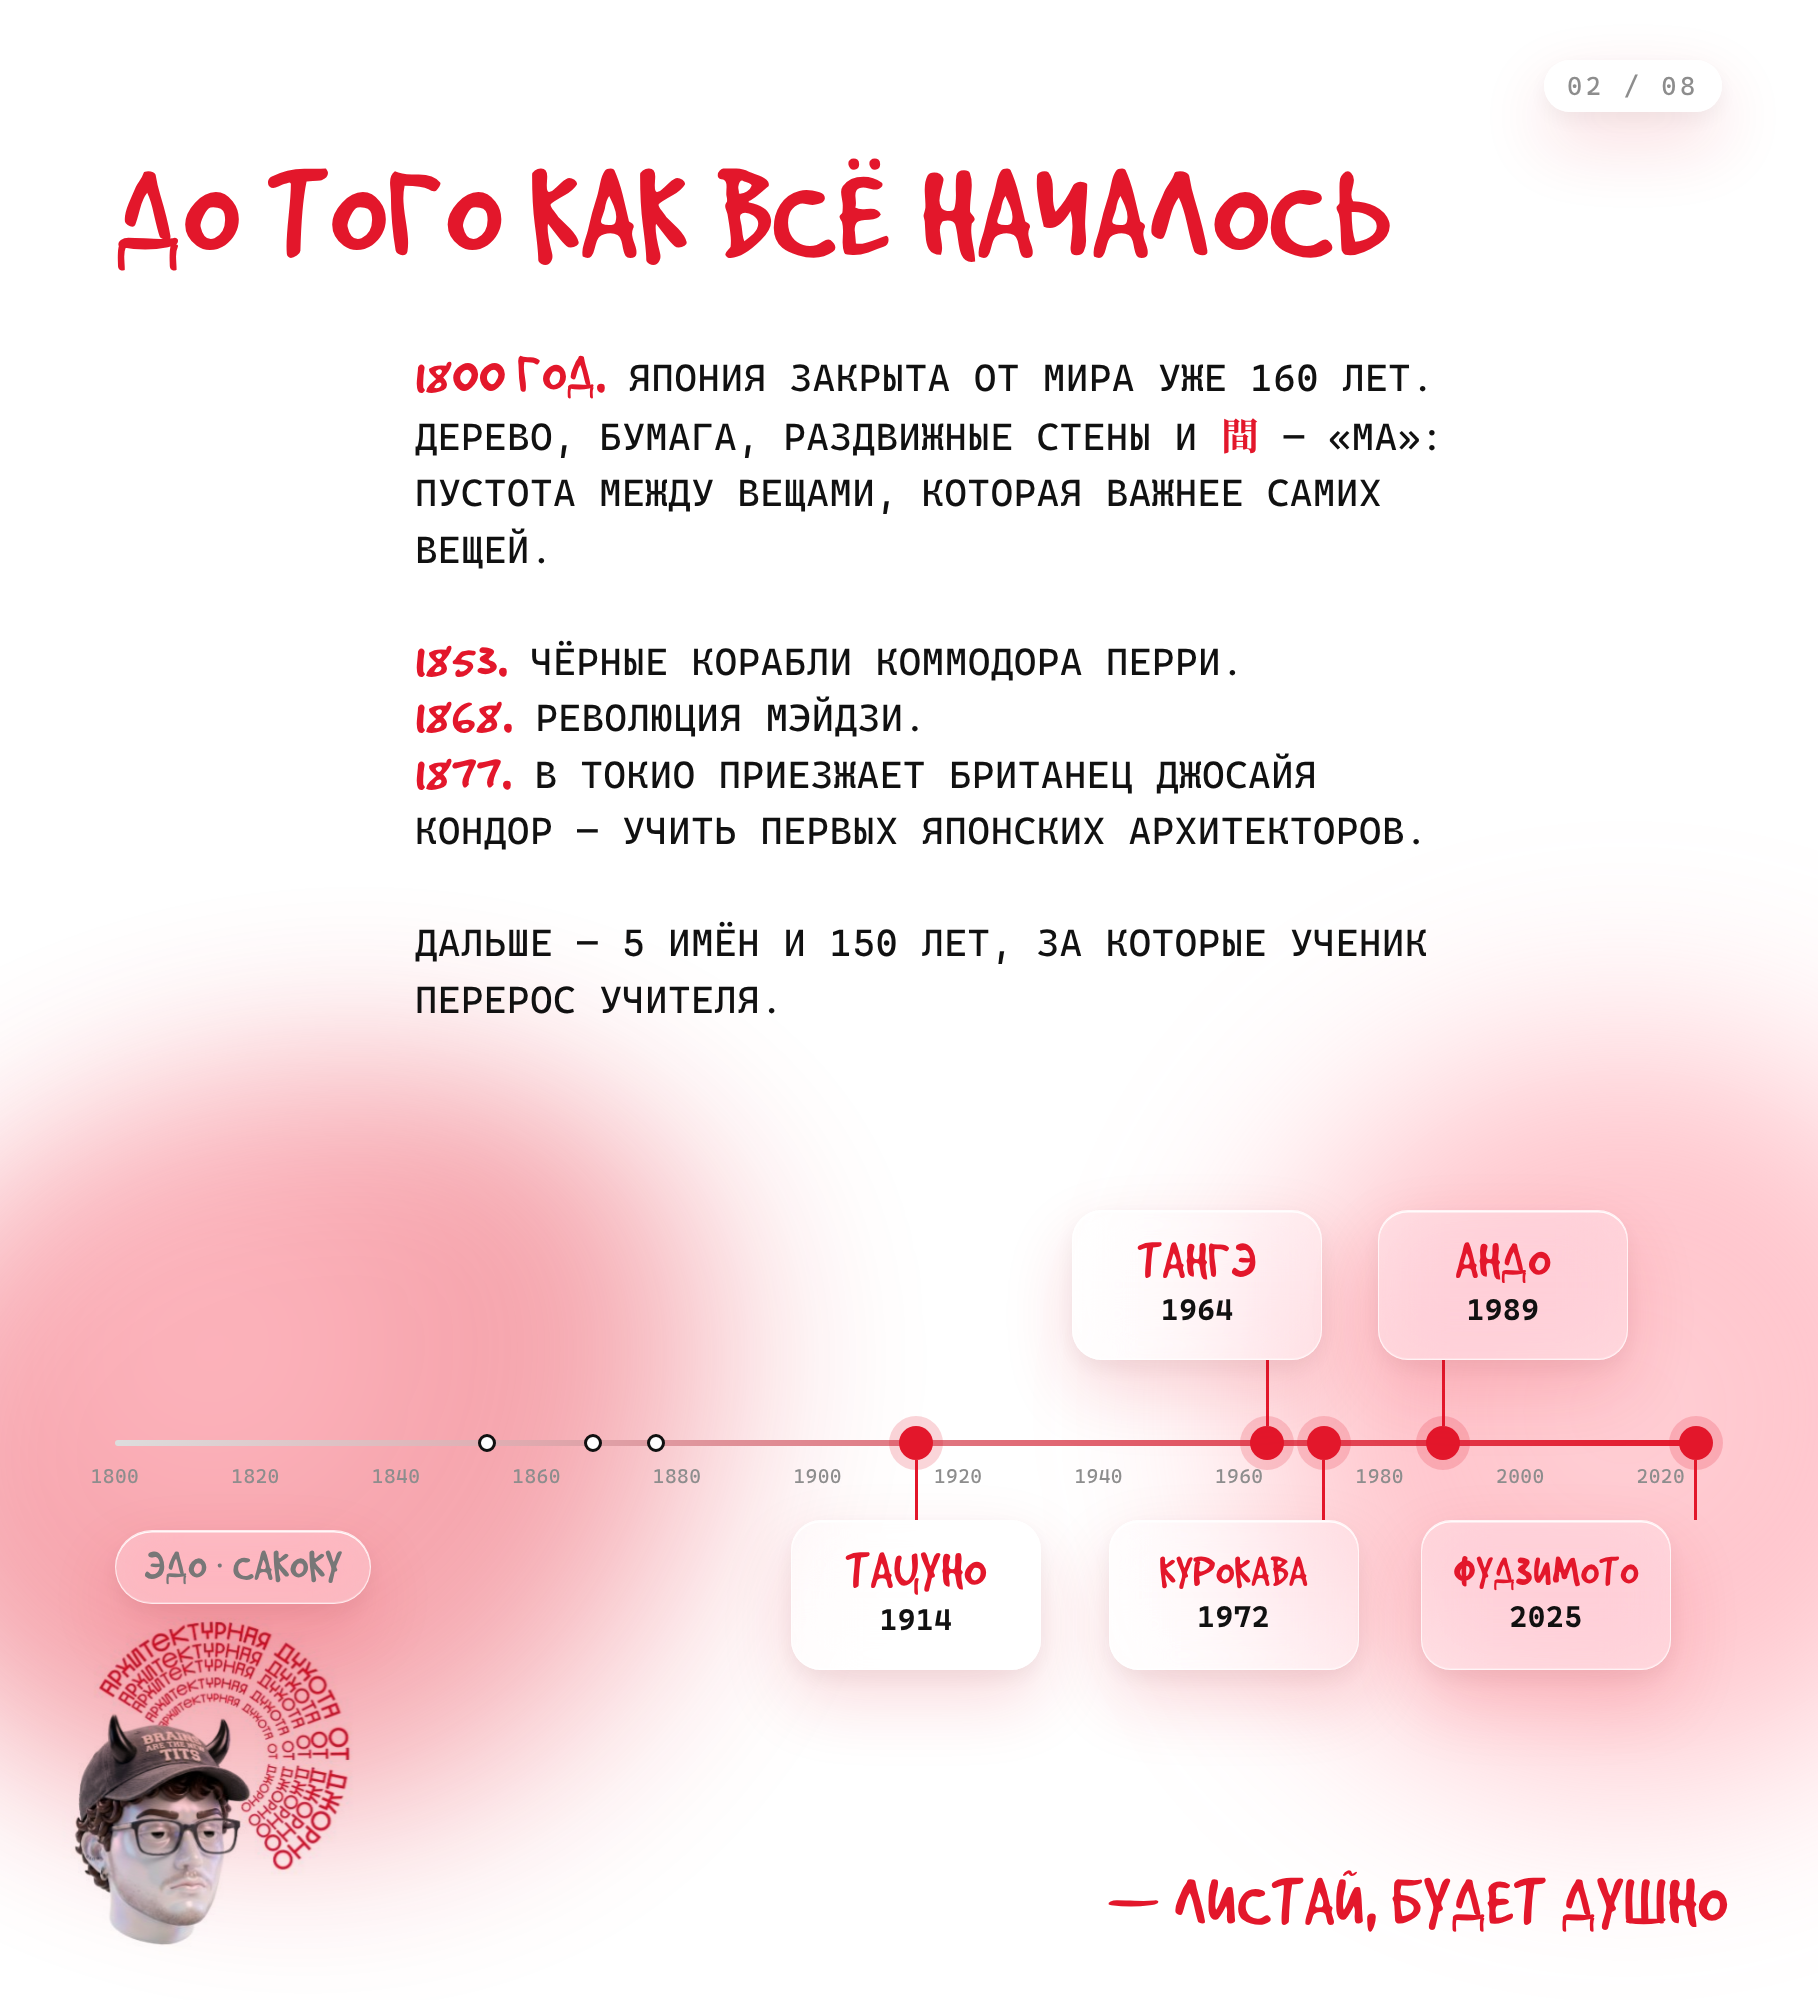
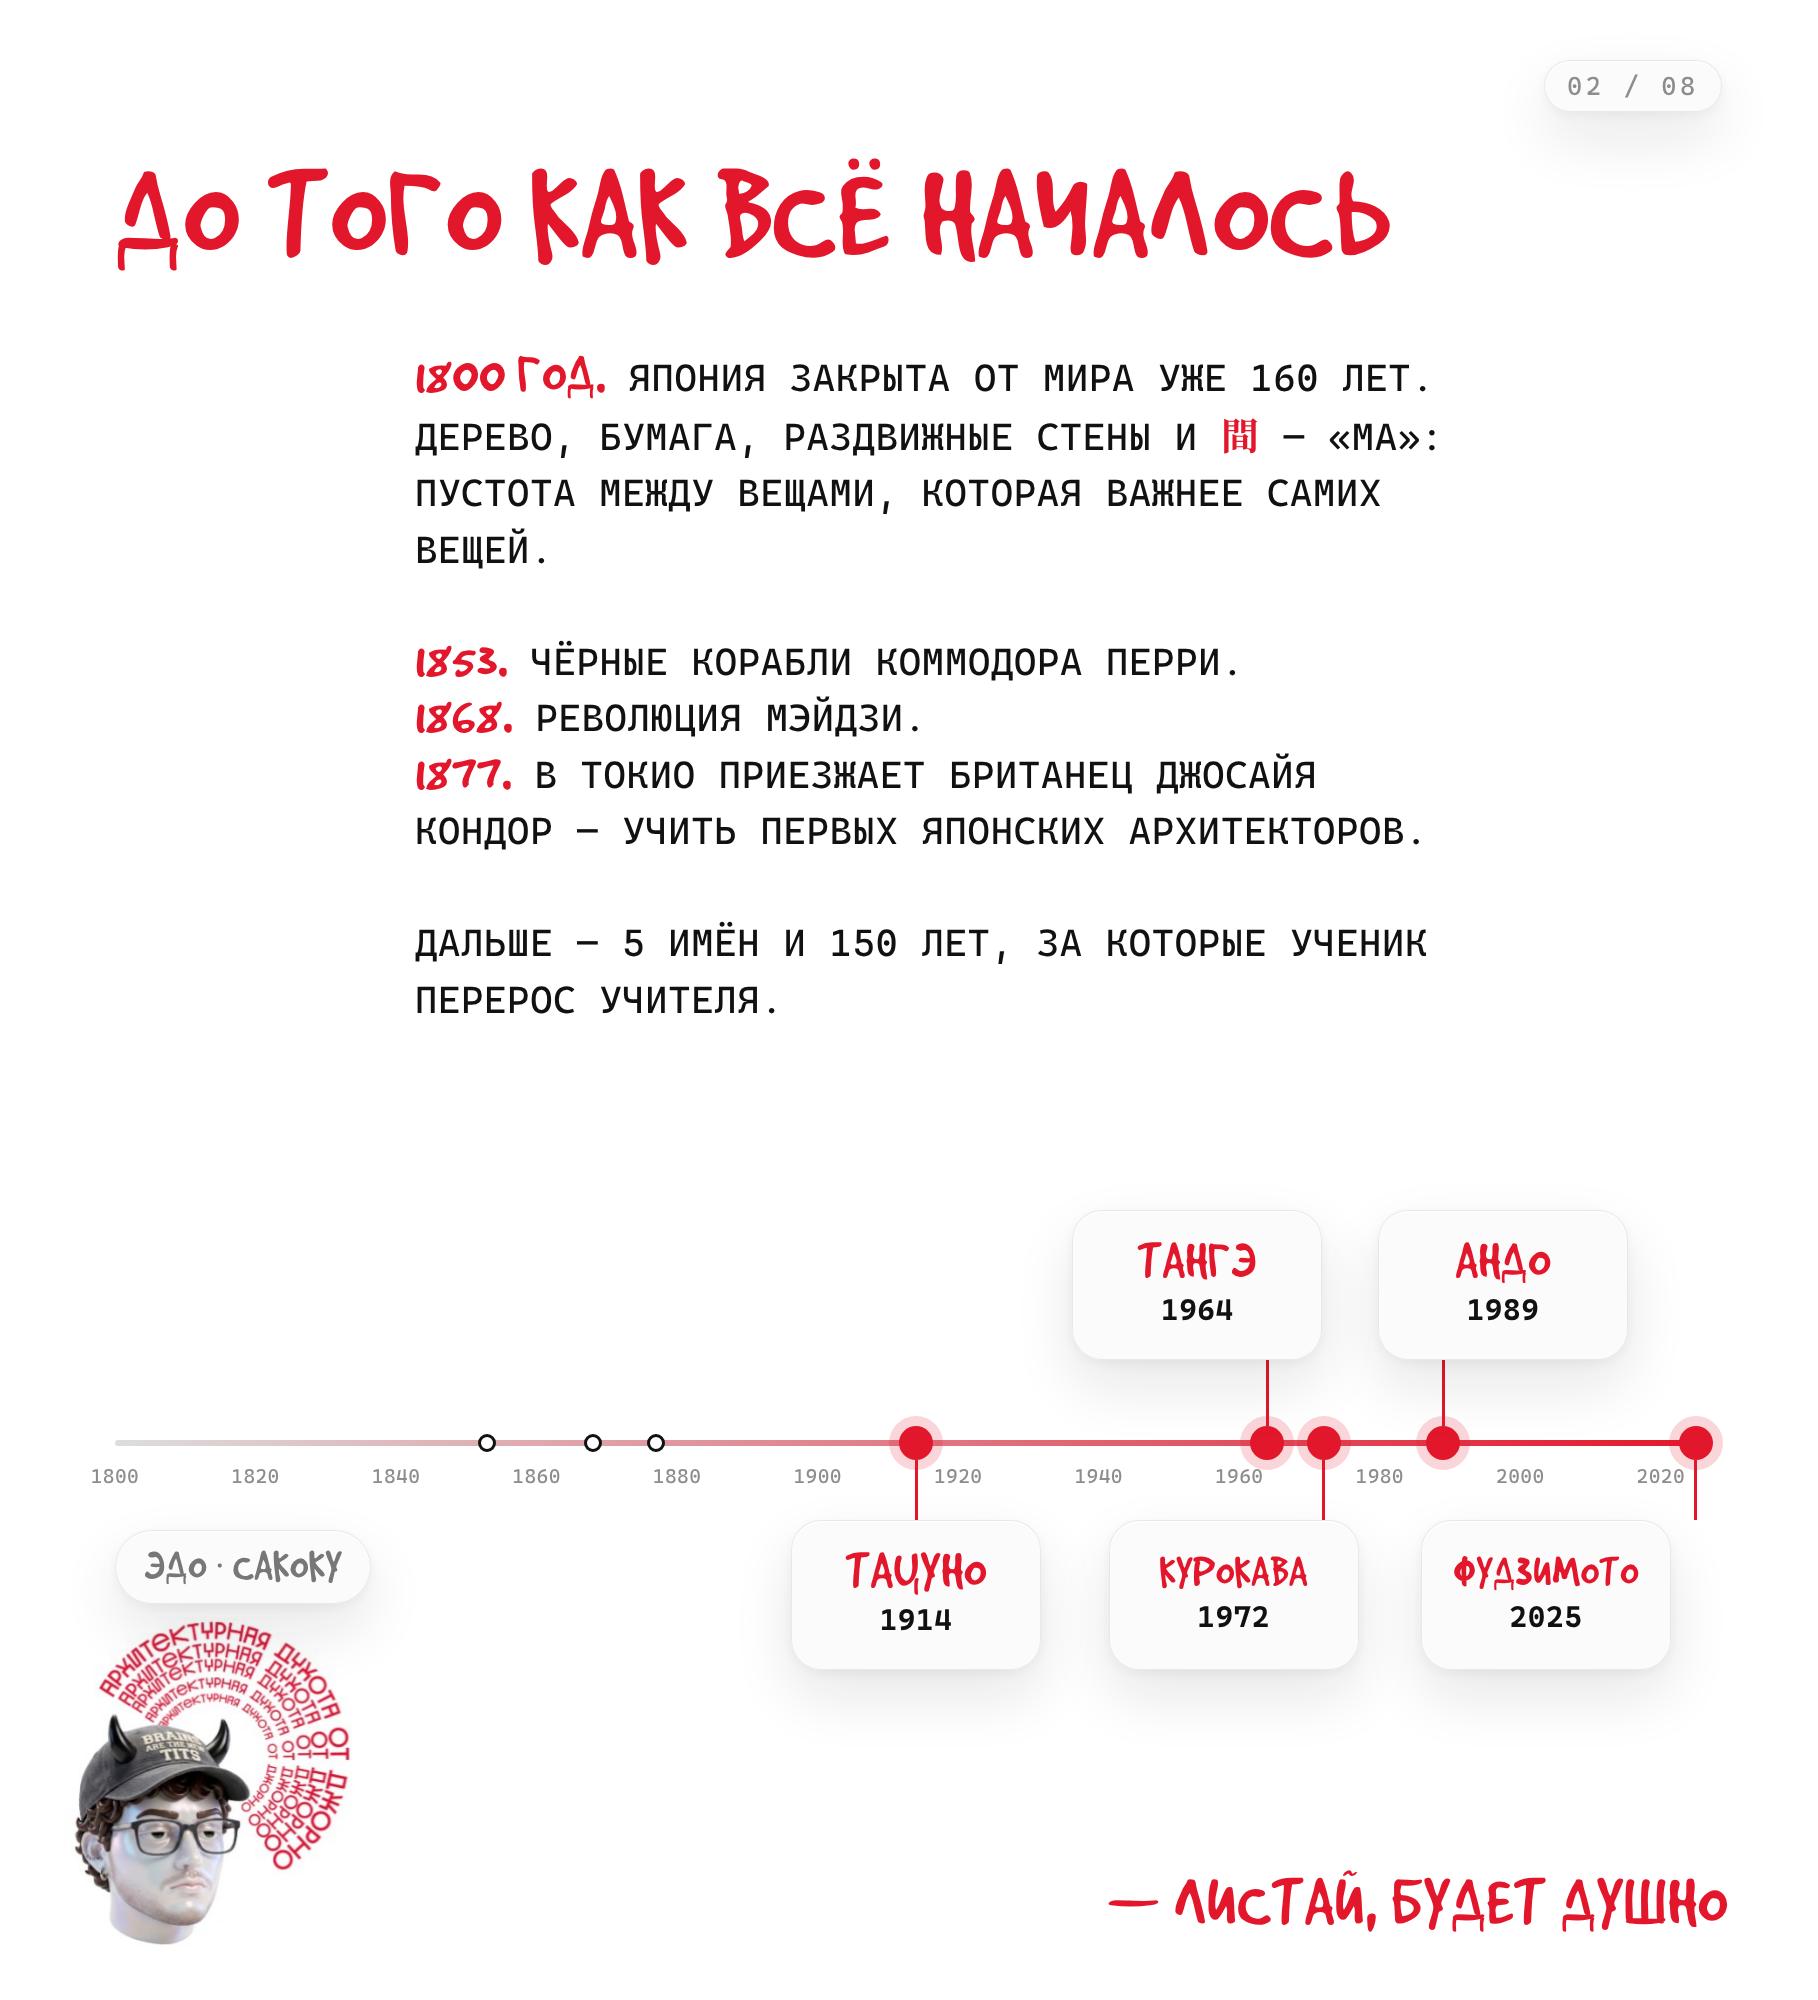
Carousel: drop pink blobs, plain white background with neutral frosted cards
Claude-Session: https://claude.ai/code/session_01P3H123YjJAsg9f2r9Q6Sv8

Changed region(s): [[0.0, 0.496, 0.4312, 0.93], [0.6469, 0.496, 1.0, 0.899]]

diff --git a/carousel/japan-architects/carousel.html b/carousel/japan-architects/carousel.html
@@ -13,8 +13,8 @@
   @font-face { font-family:'NotoJP'; src:url(assets/fonts/noto-serif-jp-ma.woff2) format('woff2'); font-display:block; }
   :root {
     --red:#E3172B; --ink:#111; --grey:#8d8d8d;
-    --glass:rgba(255,255,255,.26); --glass-edge:rgba(255,255,255,.7);
-    --glass-shadow:0 30px 70px rgba(227,23,43,.16), 0 8px 24px rgba(17,17,17,.06), inset 0 1.5px 0 rgba(255,255,255,.9), inset 0 -1px 0 rgba(255,255,255,.25);
+    --glass:rgba(250,250,250,.72); --glass-edge:rgba(17,17,17,.08);
+    --glass-shadow:0 26px 60px rgba(17,17,17,.10), 0 4px 14px rgba(17,17,17,.05), inset 0 1.5px 0 #fff;
   }
   * { box-sizing:border-box; margin:0; padding:0; }
   body { background:#ddd; display:flex; flex-direction:column; gap:40px; align-items:center; padding:40px 0; }
@@ -29,7 +29,7 @@
   .abs { position:absolute; }
 
   /* glassmorphism */
-  .blob { position:absolute; border-radius:50%; filter:blur(80px); opacity:.42; z-index:-1;
+  .blob { display:none !important; position:absolute; border-radius:50%; filter:blur(80px); opacity:.42; z-index:-1;
           background:radial-gradient(circle at 35% 35%, #ff5a6e 0%, var(--red) 45%, rgba(227,23,43,0) 72%);
           animation:drift 6s ease-in-out infinite alternate; }
   .blob.soft { background:radial-gradient(circle at 50% 50%, #ffb3bd 0%, #ff7a8a 40%, rgba(255,122,138,0) 72%); opacity:.5; animation-duration:7s; }
